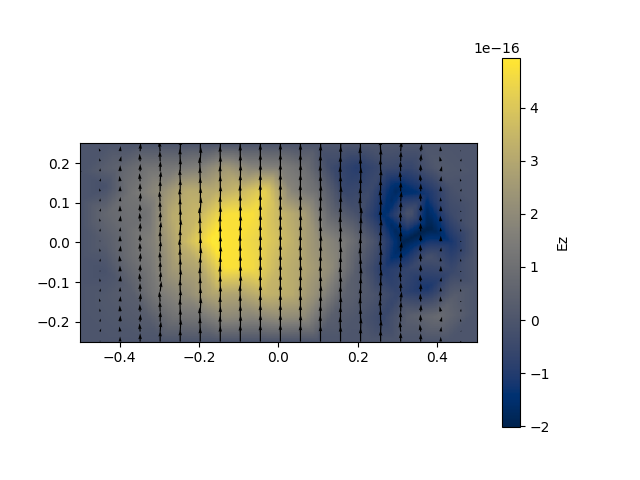
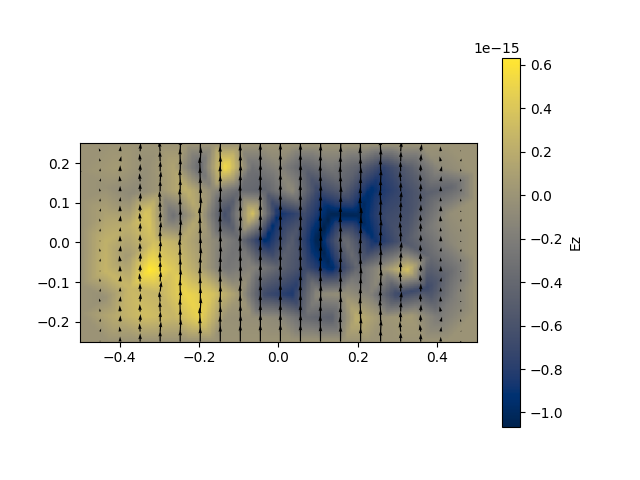
Add support for meshes that do not lie in the XY plane. Needs testing.

diff --git a/iwaveguide/waveguide.py b/iwaveguide/waveguide.py
@@ -21,7 +21,7 @@ class Waveguide:
         :param p1: If an integration line is desired, ``p1`` is the starting point of the line integral. Default = None.
         :param p2: If an integration line is desired, ``p2`` is the ending point of the line integral. Default = None.
         """
-        self.connectivity, self.all_nodes, self.all_edges, self.boundary_node_numbers, self.boundary_edge_numbers, self.remap_inner_node_nums, self.remap_inner_edge_nums, self.all_edges_map = load_mesh(filename, surface_names, boundary_name, permittivities)
+        self.connectivity, self.all_nodes, self.all_edges, self.boundary_node_numbers, self.boundary_edge_numbers, self.remap_inner_node_nums, self.remap_inner_edge_nums, self.all_edges_map, self.rotation, self.un_rotation = load_mesh(filename, surface_names, boundary_name, permittivities)
         # Compute the bounds of the waveguide
         self.x_min = np.amin(self.all_nodes[:, 0])
         self.y_min = np.amin(self.all_nodes[:, 1])
@@ -276,7 +276,7 @@ class Waveguide:
         :param trapezoids: The number of trapezoids to use in the integration. Default = 100.
         :return: The result of the integration.
         """
-        # Convert to numpy arrays if not already
+        # Convert to numpy arrays if not already and rotate
         p1, p2 = np.array(p1), np.array(p2)
         # The vector describing the direction of the line from ``p1`` to ``p2``.
         v = np.array((p2[0] - p1[0], p2[1] - p1[1]))
@@ -286,24 +286,25 @@ class Waveguide:
         # How far along the line segment we are (0 = starting point, 1 = ending point)
         t = np.linspace(0, 1, trapezoids)
         all_points = np.array([p1 + t_val * (p2 - p1) for t_val in t])
-        y = np.array([np.dot(self.get_field_at(point[0], point[1]), norm_v) for point in all_points])
+        y = np.array([np.dot(self.get_field_at(point), norm_v) for point in all_points])
         return trapz(y, dx=np.linalg.norm(v)/trapezoids)
 
-    def get_field_at(self, x, y):
+    def get_field_at(self, p):
         """
         Compute the electric field at the point (x, y).
-        :param x: The x point to compute the field at.
-        :param y: The y point to compute the field at.
+        :param p: The point to evaluate the field at.
         :return: A numpy array of length three containing (Ex, Ey, Ez) at the specified point.
         """
         # For skipping transverse fields and accessing the longitudinal fields
         skip_tran = len(self.remap_inner_edge_nums)
+        # Rotate the point into the xy plane
+        p = self.rotation @ np.array(p)
 
         # Keep track of whether we have found the element this point lies in.
         element_num = -1
         for k, element in enumerate(self.connectivity):
             # Check if the point is inside this element
-            if element.is_inside(x, y):
+            if element.is_inside(p[0], p[1]):
                 # The element this point lies in has been found, note it and stop searching
                 element_num = k
                 break
@@ -317,7 +318,7 @@ class Waveguide:
             phi3 = 0 if not element.nodes[2] in self.remap_inner_node_nums else self.eigenvectors[self.mode_index,
                 skip_tran + self.remap_inner_node_nums[element.nodes[2]]]
             # Interpolate to get Ez
-            ez = element.nodal_interpolate(phi1, phi2, phi3, x, y)
+            ez = element.nodal_interpolate(phi1, phi2, phi3, p[0], p[1])
 
             # Get the phi values associated with each edge
             phi1e = 0 if not element.edges[0] in self.remap_inner_edge_nums else self.eigenvectors[self.mode_index,
@@ -327,11 +328,12 @@ class Waveguide:
             phi3e = 0 if not element.edges[2] in self.remap_inner_edge_nums else self.eigenvectors[self.mode_index,
                 self.remap_inner_edge_nums[element.edges[2]]]
             # Interpolate to get Ex and Ey
-            ex, ey = element.edge_interpolate(phi1e, phi2e, phi3e, x, y)
+            ex, ey = element.edge_interpolate(phi1e, phi2e, phi3e, p[0], p[1])
         else:
-            raise RuntimeError(f"Electric field requested at point ({x}, {y}) lies outside the geometry")
+            raise RuntimeError(f"Electric field requested at point ({p}) lies outside the geometry")
 
-        return np.array([ex, ey, ez])
+        # Return the result, un-rotated
+        return self.un_rotation @ np.array([ex, ey, ez])
 
     def plot_dispersion(self, k0s, all_propagation_constants, rel_x=True):
         """
@@ -375,10 +377,9 @@ class Waveguide:
 
         # Iterate over the 100x100 grid of points we want to plot
         for i in range(num_y_points):
-            pt_y = y_points[i]
             for j in range(num_x_points):
-                pt_x = x_points[j]
-                Ex[i, j], Ey[i, j], Ez[i, j] = self.get_field_at(pt_x, pt_y)
+                p = np.array([x_points[j], y_points[i], 0])
+                Ex[i, j], Ey[i, j], Ez[i, j] = self.rotation @ self.get_field_at(self.un_rotation @ p)
 
         fig = plt.figure()
         plt.imshow(Ez, extent=[self.x_min, self.x_max, self.y_min, self.y_max], cmap="cividis")

diff --git a/iwaveguide/util.py b/iwaveguide/util.py
@@ -35,12 +35,6 @@ class Edge:
         Hash the edge object for fast performance on maps/sets.
         Two edges with flipped node numbers produce the same hash value (are considered equal when compared thru map/set)
         """
-        # if self.node1 < self.node2:
-        #     hash_value = (self.node1, self.node2).__hash__()
-        # else:
-        #     hash_value = (self.node2, self.node1).__hash__()
-        # # print(f"Hash value: {hash_value}")
-        # return hash_value
         return hash(tuple(sorted((self.node1, self.node2))))
 
 
@@ -241,6 +235,8 @@ def load_mesh(filename, surface_names, boundary_name, permittivities=None):
     if permittivities is None:
         permittivities = [1 for i in range(len(surface_names))]
     all_nodes = load_mesh_block(filename, "ALLNODES")
+    rotation = np.identity(3)
+    un_rotation = np.identity(3)
     # Check if we are dealing with a 3D mesh
     if all_nodes.shape[1] == 3:
         # Get 3 points that lie in the plane
@@ -268,7 +264,13 @@ def load_mesh(filename, surface_names, boundary_name, permittivities=None):
         p2 = rotation @ plane_points[1]
         p3 = un_rotation @ rotation @ plane_points[2]
         # TODO: Finish testing this 3D rotation idea. Seems to be working, but commenting out for now for testing in 3D
-        # all_nodes = np.array([rotation @ node for node in all_nodes])
+        all_nodes = np.array([rotation @ node for node in all_nodes])
+    else:
+        # Force all_nodes to have 3 values (assign z = 0 as a third column)
+        # print(all_nodes.shape)
+        zeros = np.zeros([all_nodes.shape[0], 1])
+        all_nodes = np.hstack((all_nodes, zeros))
+        # print(all_nodes.shape)
 
     # CONSTRUCT ELEMENT NODE CONNECTIVITY LIST FOR EACH SURFACE
     surfaces_node_connectivity = []
@@ -391,7 +393,7 @@ def load_mesh(filename, surface_names, boundary_name, permittivities=None):
     # remap_inner_edge_nums: A map that takes one of the inner edge numbers and maps it to a unique integer between [0, number of inner edges]
     # remap_inner_node_nums: A map that takes one of the inner node numbers and maps it to a unique integer between [0, number of inner nodes]
     # all_edges_map: A map from an Edge object to its global edge number
-    return elements, all_nodes, all_edges, boundary_node_numbers, boundary_edge_numbers, remap_inner_node_nums, remap_inner_edge_nums, all_edges_map
+    return elements, all_nodes, all_edges, boundary_node_numbers, boundary_edge_numbers, remap_inner_node_nums, remap_inner_edge_nums, all_edges_map, rotation, un_rotation
 
 
 def area(x1, y1, x2, y2, x3, y3):

diff --git a/main.py b/main.py
@@ -10,22 +10,23 @@ if __name__ == '__main__':
 
     # Load a homogeneous rectangular waveguide with epsilon_r = 1
     # waveguide = Waveguide("rect_mesh_two_epsilons_coarse.inp", ["EB1", "EB2"], "EB3")
-    waveguide = Waveguide("rect_mesh_one_epsilon_finer_20220615.inp", ["EB1"], "EB2", p1=[0, -0.25], p2=[0, 0.25])
+    waveguide = Waveguide("rect_mesh_one_epsilon_finer_20220615.inp", ["EB1"], "EB2", p1=[0, -0.25, 0], p2=[0, 0.25, 0])
     # waveguide = Waveguide("z_plane_mesh.inp", ["EB1"], "EB2")
     # Solve for the propagation constants and eigenvectors.
-    betas, all_eigenvectors, k0s = waveguide.solve()
+    # betas, all_eigenvectors, k0s = waveguide.solve()
     # Plot the dispersion curve using the results.
-    waveguide.plot_dispersion(k0s, betas)
+    # waveguide.plot_dispersion(k0s, betas)
+    waveguide.solve_k0(4)
     # Create the figure for plotting. Not needed if figure already created by Waveguide#plot_dispersion().
     # plt.figure()
     # plt.xlabel(r"$k_0 * a$")
     # plt.ylabel(r"$\beta / k_0$")
     # Analytical TE/TM Modes (the dispersion curves will look the same)
-    for i in range(3):
-        for j in range(3):
-            if i == j == 0:
-                continue
-            plot_rect_waveguide_mode(i, j)
+    # for i in range(3):
+    #     for j in range(3):
+    #         if i == j == 0:
+    #             continue
+    #         plot_rect_waveguide_mode(i, j)
 
     # Plot the fields of the waveguide. all_eigenvectors[-1] gives a set of eigenvectors for the end k0.
     # Indexing that set by [-1] gives the mode with the highest propagation constant for that k0.
@@ -35,6 +36,7 @@ if __name__ == '__main__':
     # waveguide.plot_fields(all_eigenvectors[-1][-1])
     waveguide.plot_fields()
     plt.savefig('temp.png')
+    print('Done')
     # print(f"Plot shown for beta/k0 = {betas[-1]/k0s[-1]}")
     # print(waveguide.x_min)
     # print(waveguide.y_min)
